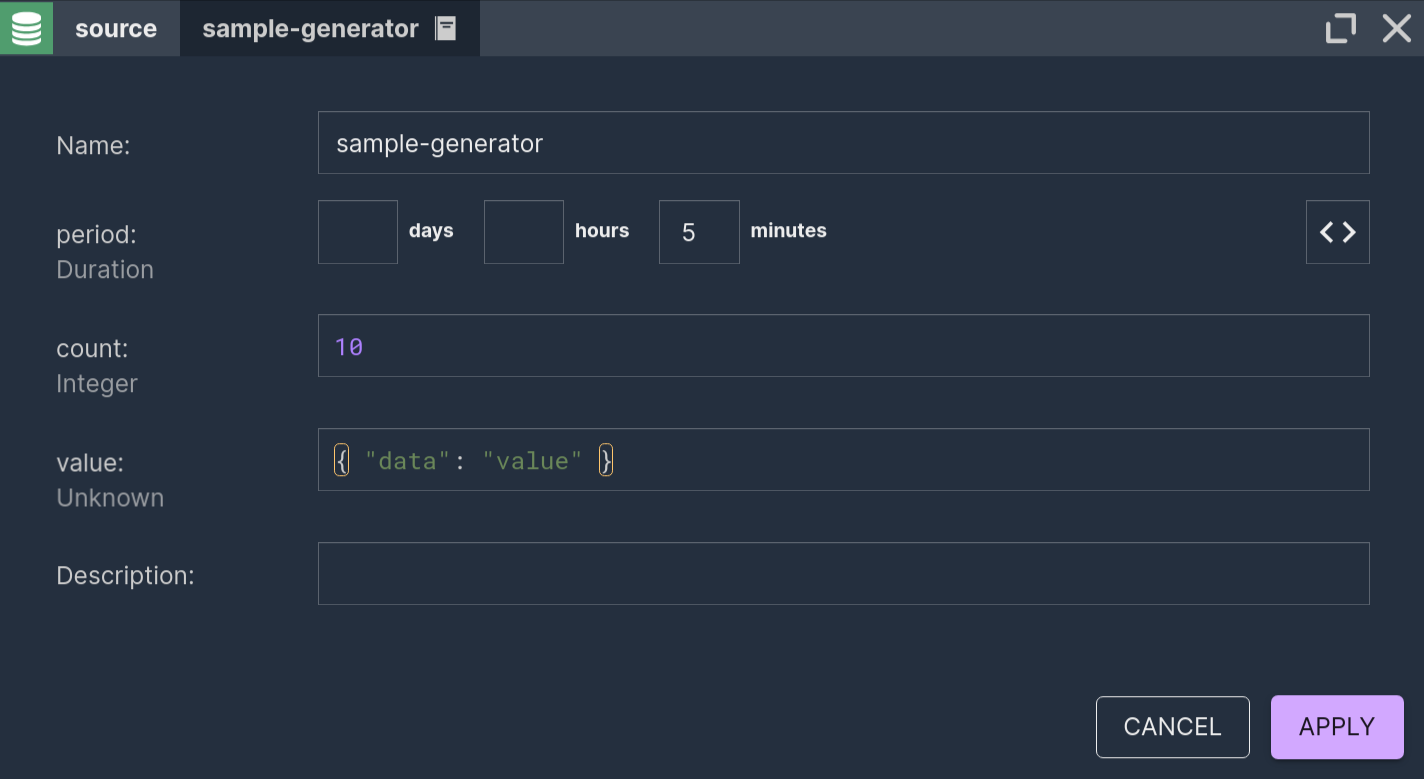
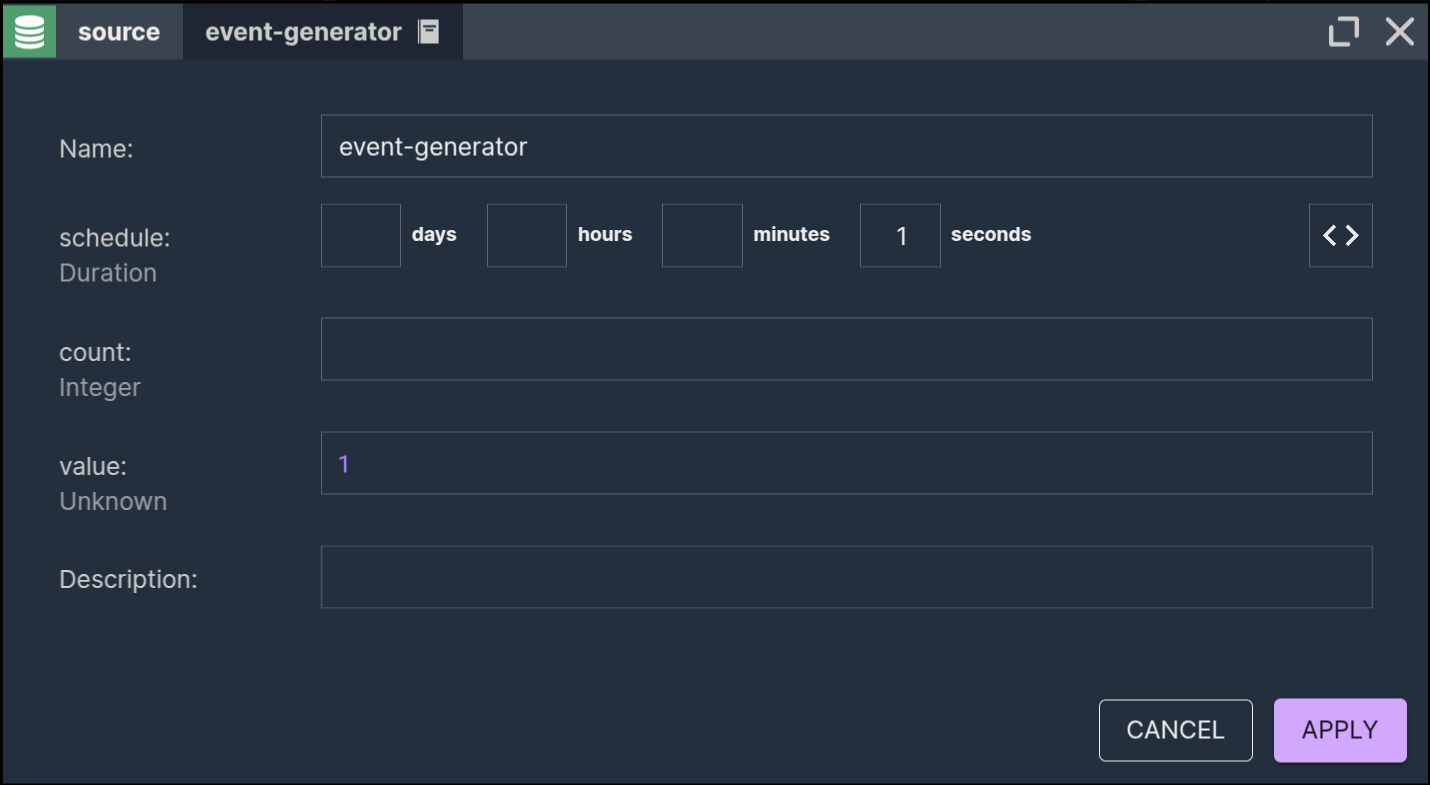
update docs

diff --git a/docs/developers_guide/FlinkComponents.md b/docs/developers_guide/FlinkComponents.md
@@ -41,7 +41,7 @@ Your Nussknacker source component specification should be a [SourceFactory](http
 returning your source implementation.
 
 ### Examples
-- [Periodic source](../scenarios_authoring/DataSourcesAndSinks.md#event-generator) and its [implementation](https://github.com/TouK/nussknacker/blob/staging/engine/flink/components/base/src/main/scala/pl/touk/nussknacker/engine/flink/util/transformer/SampleGeneratorSourceFactory.scala)
+- [Event generator source](../scenarios_authoring/DataSourcesAndSinks.md#event-generator) and its [implementation](https://github.com/TouK/nussknacker/blob/staging/engine/flink/components/base/src/main/scala/pl/touk/nussknacker/engine/flink/util/transformer/EventGeneratorSourceFactory.scala)
 - [FlinkKafkaSource](https://github.com/TouK/nussknacker/blob/staging/engine/flink/kafka-components-utils/src/main/scala/pl/touk/nussknacker/engine/kafka/source/flink/FlinkKafkaSource.scala)
   and its factory returning the source implementation along with the fixed specification (e.g. based on a Scala case class) [KafkaSourceFactory](https://github.com/TouK/nussknacker/blob/staging/utils/kafka-components-utils/src/main/scala/pl/touk/nussknacker/engine/kafka/source/KafkaSourceFactory.scala)
   or generic one [UniversalKafkaSourceFactory](https://github.com/TouK/nussknacker/blob/staging/utils/schemed-kafka-components-utils/src/main/scala/pl/touk/nussknacker/engine/schemedkafka/source/UniversalKafkaSourceFactory.scala)

diff --git a/docs/scenarios_authoring/DataSourcesAndSinks.md b/docs/scenarios_authoring/DataSourcesAndSinks.md
@@ -190,11 +190,19 @@ The `key` parameter will be removed in the future release of Nussknacker, for th
 
 ![event_generator_window](img/event-generator.png)
 
-This source provides functionality of sending a number of given events in a periodic way. It's mainly used for testing.
+This source generates events at a user-defined schedule.
 
-This source has the following parameters:
+There are two primary use cases for this component:
+
+- Generating a stream of data (typically for testing): The `#input` variable, available downstream, will be populated
+  with the data generated by this component. Use the `#RANDOM` helper to produce random values.
+- Periodically generating a trigger event: This enables your scenario to run periodically, unlocking additional use
+  cases beyond the traditional stream processing.
+
+Parameters:
+
 - schedule - specifies how often events will be sent
-- count - specifies number of event that will be sent every `period`
-- value - specifies data that event will hold
+- count - specifies number of events that will be generated at every run
+- value - specifies data that event will hold. Expressions will be evaluated for every event in the `count`
 
 &nbsp;
